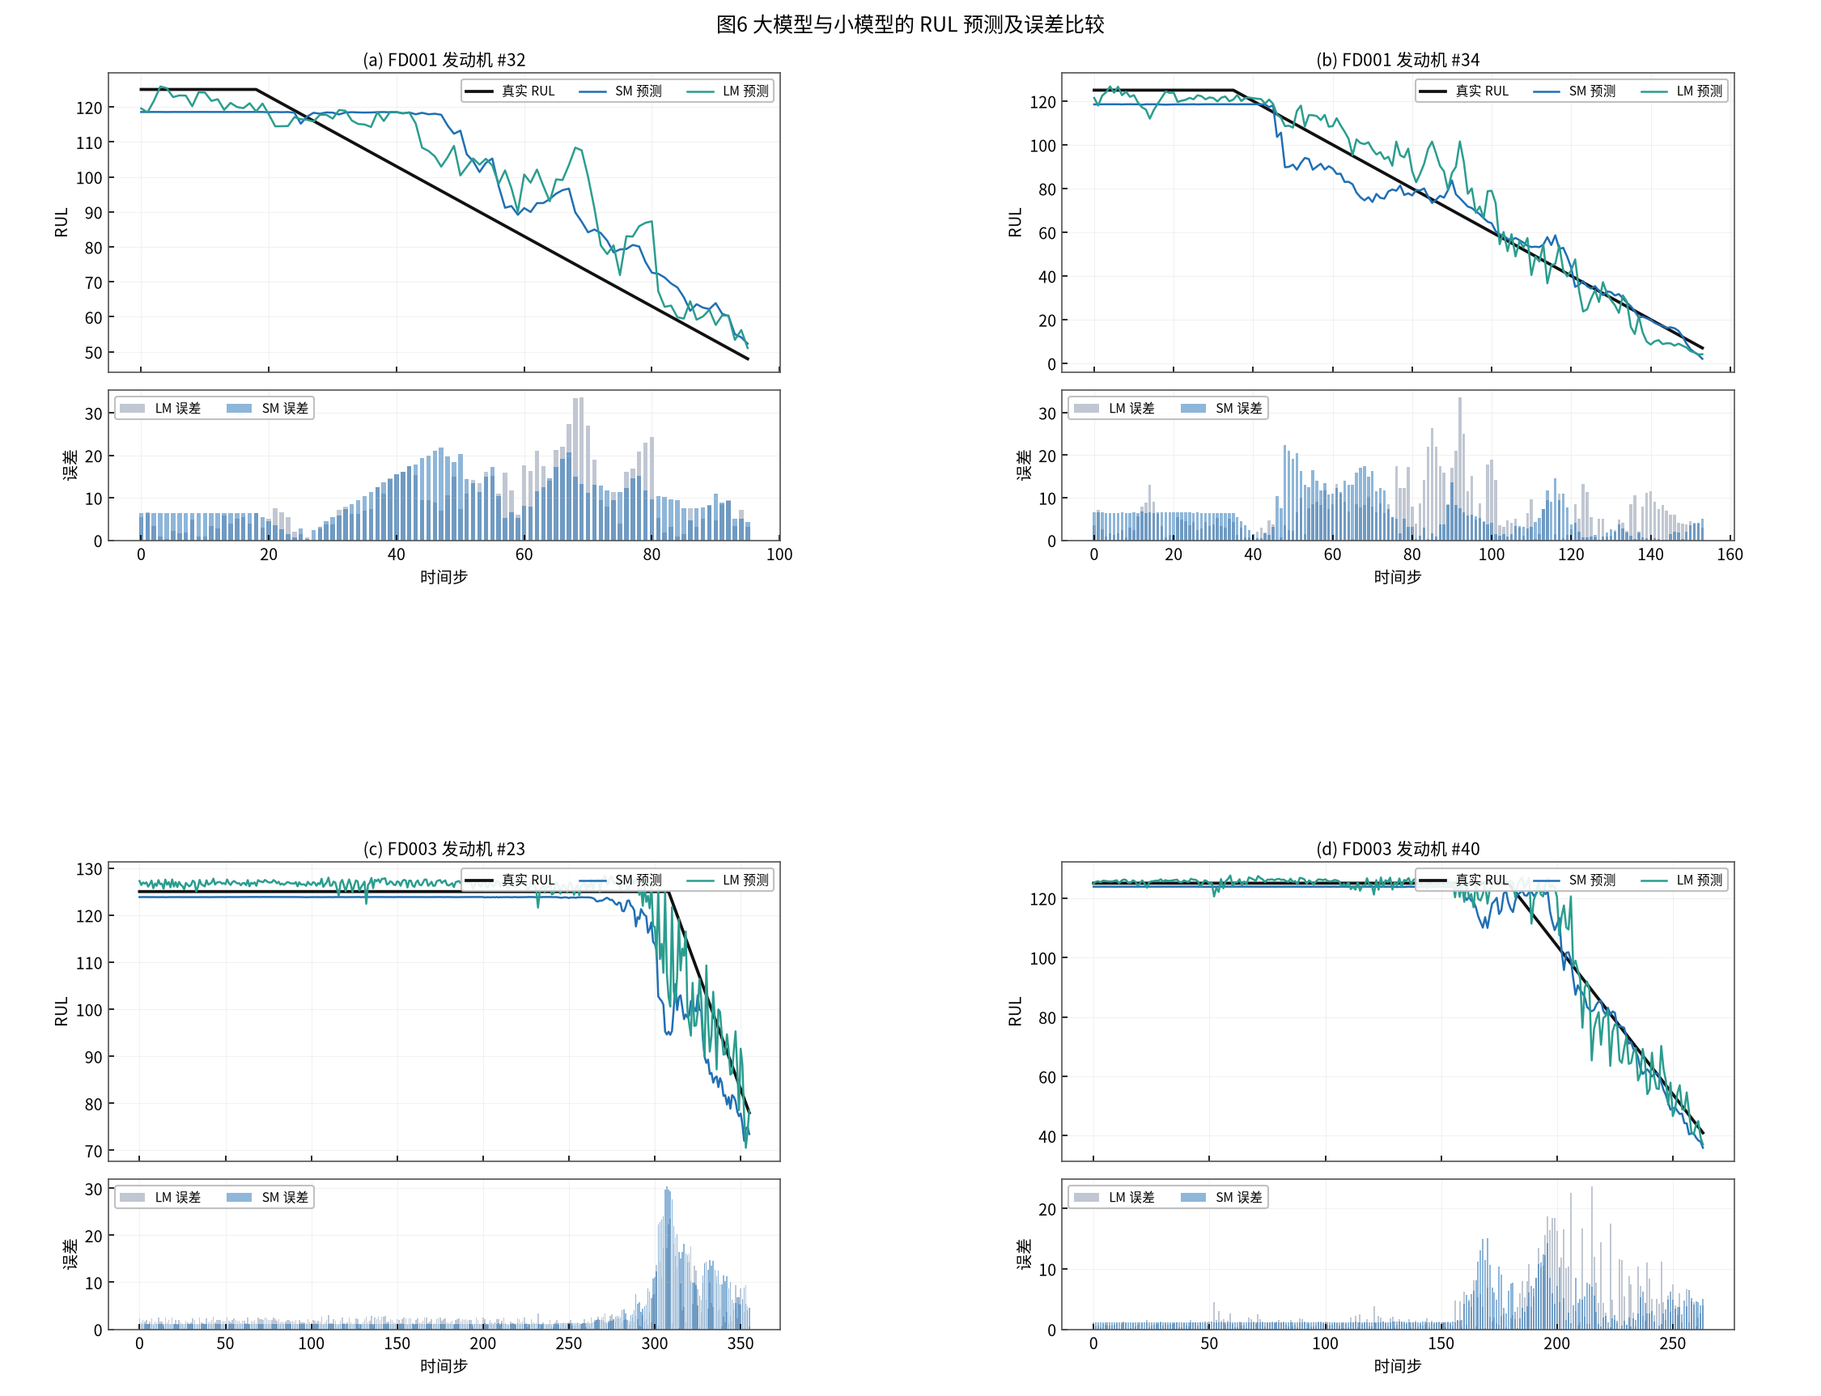
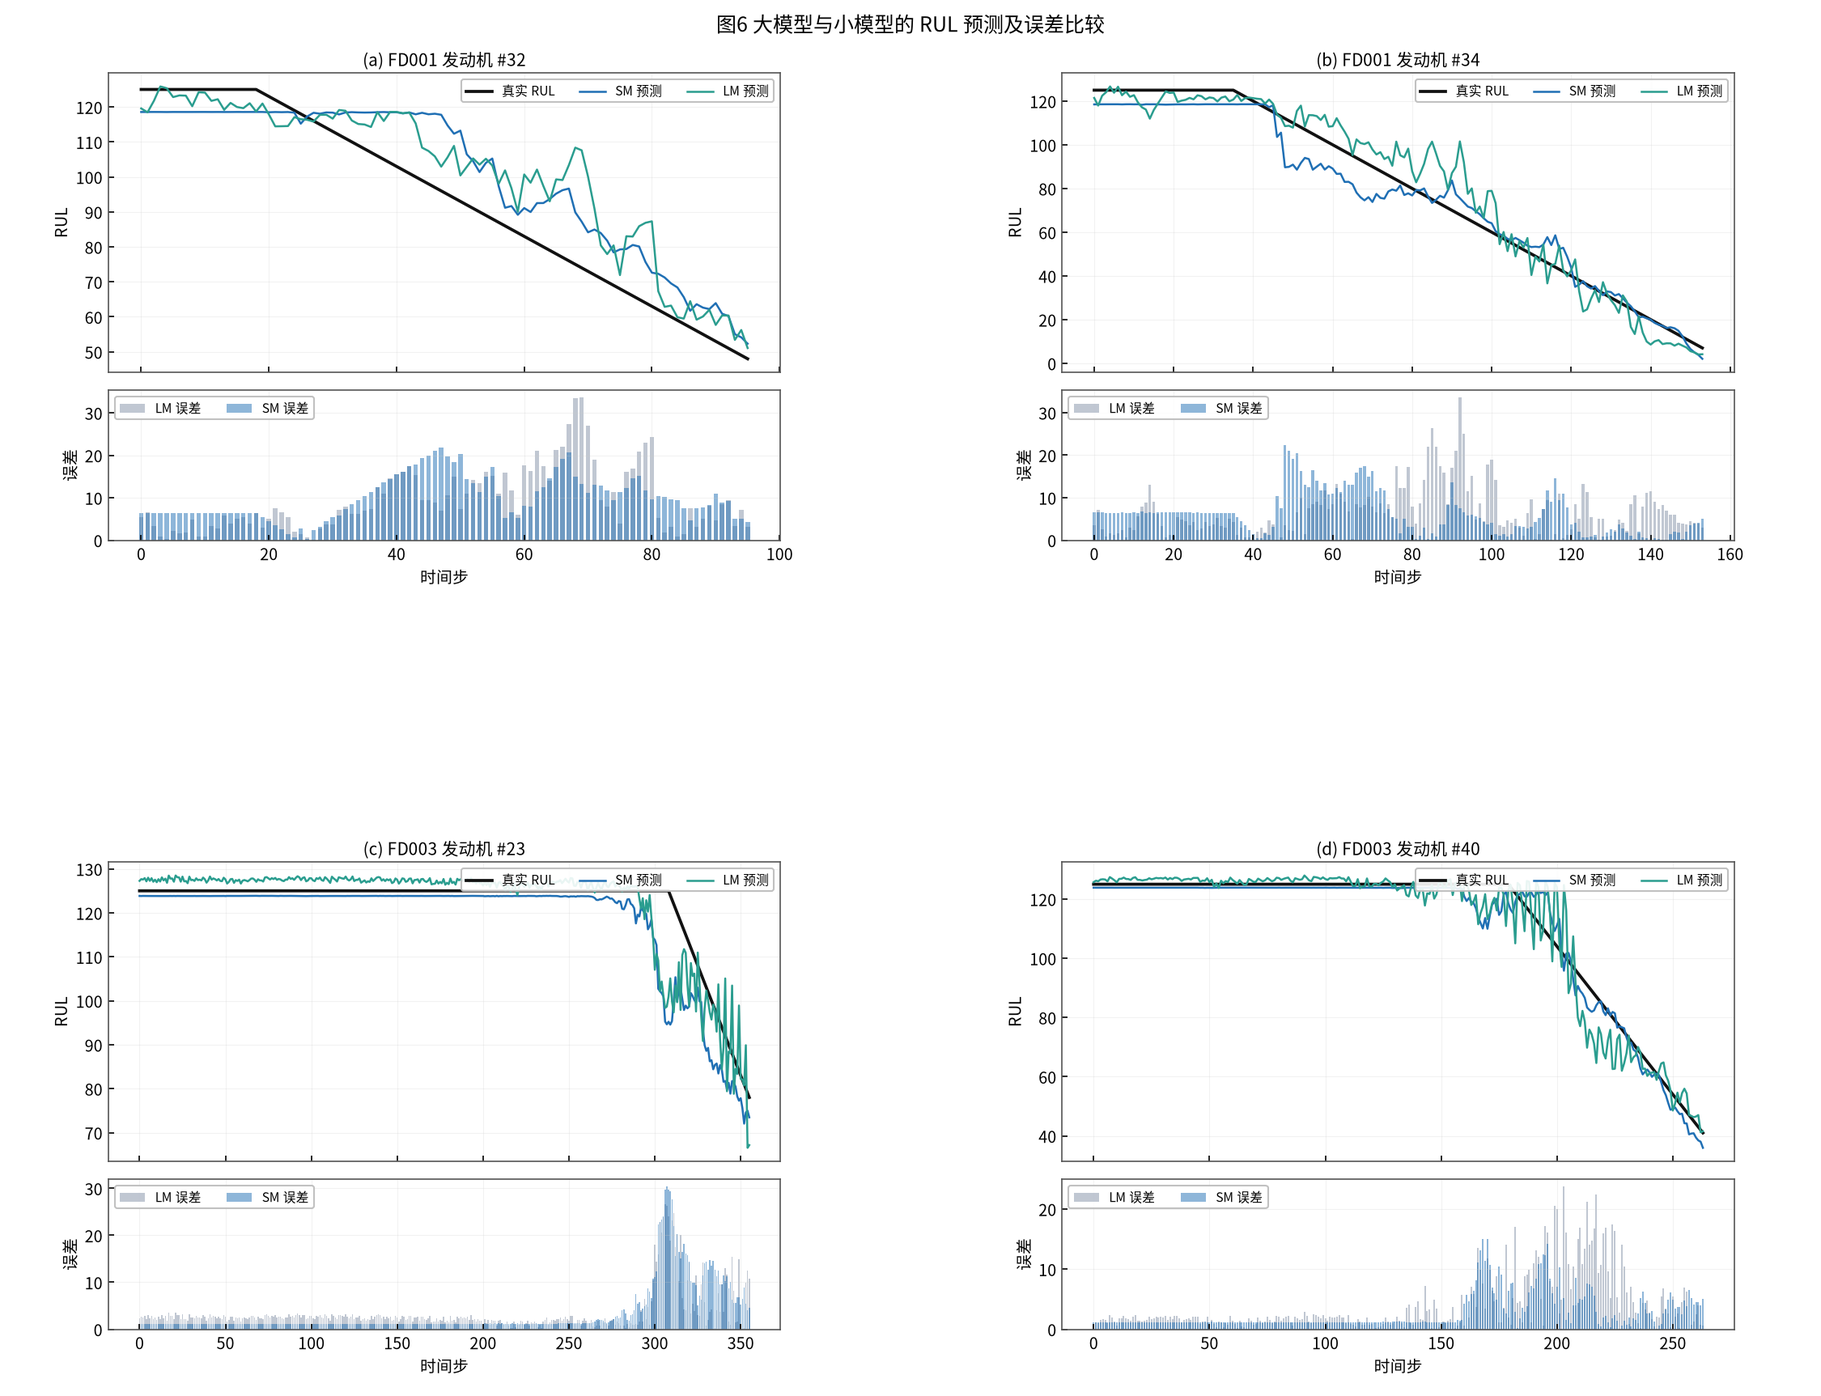
协议统一（LM 单seed42）+ Ql 悬崖配方修复 + FD003 终版数字
- LM seed 协议两子集统一为单 seed 42（消除上轮 test 知情决策；FD003 LM
  12.915→13.282，组合仍全超论文：B 10.631/C 10.726/T3 10.824）
- stage3_sweep 训练块与 train_conf 逐位一致（同 batch/重洗/独立 seed）——
  修复 Ql 饱和悬崖导致的 α 选择偏差；FD003 复选定稿 mean/α6、FD001 stats/α6 复核不变
- 文档/README/图件全部同步终版数字

diff --git a/experiments/stage3_sweep.py b/experiments/stage3_sweep.py
@@ -19,7 +19,7 @@ from pathlib import Path
 sys.path.insert(0, str(Path(__file__).resolve().parents[1]))
 
 import torch
-from torch.utils.data import DataLoader
+from torch.utils.data import DataLoader, TensorDataset
 
 from collm.config import get_config
 from collm.data import prepare_cmapss
@@ -58,7 +58,6 @@ def main():
     ap.add_argument("--alphas", type=float, nargs="+", default=[6, 8, 10, 12, 15])
     ap.add_argument("--pools", nargs="+", default=["mean", "stats"])
     ap.add_argument("--epochs", type=int, default=100)
-    ap.add_argument("--lr", type=float, default=1e-3)
     args = ap.parse_args()
 
     cfg = get_config(args.subset)
@@ -98,14 +97,16 @@ def main():
             cfg.fuzzy.pool_mode = pool
             cfg.fuzzy.alpha = alpha
             cfg.reflection.alpha = alpha
-            set_seed(cfg.seed)
+            set_seed(cfg.seed)   # 每组合独立 seed：与 train_conf 完全一致
             init_mu, init_sigma = FuzzyAgent.init_from_features(
                 ftr[0], cfg.fuzzy.n_membership // cfg.fuzzy.d_input)
             fuzzy = FuzzyAgent(cfg.fuzzy, init_mu=init_mu, init_sigma=init_sigma).to(device)
             refl = ReflectionModel(cfg.reflection).to(device)
-            opt = torch.optim.Adam(list(fuzzy.parameters()) + list(refl.parameters()), lr=args.lr)
+            opt = torch.optim.Adam(list(fuzzy.parameters()) + list(refl.parameters()),
+                                   lr=cfg.train.conf_lr)
             crit = torch.nn.MSELoss()
-            # 训练数据 = train+val（与定稿一致）
+            # 训练数据 = train+val；DataLoader 构造与 train_conf 逐位一致
+            # （batch/每 epoch 重洗/num_workers=0——Ql 饱和悬崖对配方敏感，REVISIONS #48）
             qs_t = confidence_label(ftr[2], ftr[4], alpha)
             ql_t = confidence_label(ftr[3], ftr[4], alpha)
             qs_v = confidence_label(fva[2], fva[4], alpha)
@@ -113,12 +114,14 @@ def main():
             F = torch.cat([ftr[0], fva[0]])
             L = torch.cat([ftr[1], fva[1]])
             QS = torch.cat([qs_t, qs_v]); QL = torch.cat([ql_t, ql_v])
-            perm = torch.randperm(len(F))
+            loader = DataLoader(TensorDataset(F, L, QS, QL),
+                                batch_size=cfg.train.conf_batch, shuffle=True,
+                                num_workers=0)
             fuzzy.train(); refl.train()
             for ep in range(args.epochs):
-                for i in range(0, len(F), 2048):
-                    idx = perm[i:i + 2048]
-                    f_, l_, qs_, ql_ = F[idx].to(device), L[idx].to(device), QS[idx].to(device), QL[idx].to(device)
+                for f_, l_, qs_, ql_ in loader:
+                    f_, l_, qs_, ql_ = (f_.to(device), l_.to(device),
+                                        qs_.to(device), ql_.to(device))
                     opt.zero_grad(set_to_none=True)
                     loss = crit(fuzzy(f_), qs_) + crit(refl(l_), ql_)
                     loss.backward(); opt.step()

diff --git a/collm/config.py b/collm/config.py
@@ -139,9 +139,11 @@ def get_config(subset: str) -> Config:
     - SM 层数/正则：FD001 8 层 dropout 0.2（φs 泛化差，加深+正则最优）；
       FD003 6 层 dropout 0.1（已达标，保持）
     - LM 层数：FD001 9 层（12 层过拟合 test 15.7）；FD003 12 层（9 层 13.19 < 12 层 13.08）
-    - FNN 聚合/α：FD001 stats/α6；FD003 mean/α10（第三轮 α×pool 扫描 val 最优，
-      EXPERIMENTS_ROUND3.md §5；α∈[10,15] 锚点理论对校准 FNN 成立，FD001 的
-      FNN 回归均值校准下 τ1=0.3 触发呈阶跃——以 val 组合 RMSE 为最终裁决）
+    - FNN 聚合/α：FD001 stats/α6；FD003 mean/α6（第三轮 α×pool 扫描 val 最优，
+      EXPERIMENTS_ROUND3.md；扫描与 train_conf 配方逐位一致后复选，
+      REVISIONS #48——Ql 饱和悬崖对训练配方敏感）
+    - LM seed 协议：统一单 seed 42（LM 的 val-best 已证不可靠——val 幸运陷阱
+      REVISIONS #29/#46.2/#48；SM 才用多 seed val-best）
     """
     cfg = Config()
     if subset == "FD001":
@@ -156,8 +158,8 @@ def get_config(subset: str) -> Config:
         cfg.small.dropout = 0.1
         cfg.large.n_blocks = 12
         cfg.fuzzy.pool_mode = "mean"
-        cfg.fuzzy.alpha = 10.0
-        cfg.reflection.alpha = 10.0
+        cfg.fuzzy.alpha = 6.0
+        cfg.reflection.alpha = 6.0
     else:
         raise ValueError(f"未知子集: {subset}")
     return cfg

diff --git a/docs/FINAL_RESULTS.md b/docs/FINAL_RESULTS.md
@@ -1,18 +1,21 @@
-# 最终复现结果汇总（2026-08-15 第三轮定稿，完整重训实测）
+# 最终复现结果汇总（2026-08-16 第三轮终版，完整重训实测）
 
 所有数字为**清空结果后从零完整重训**（SM/LM/FNN/反思全部重训）的实测，
-确定性已核验（同 seed 重训逐位一致）。选择依据全部为 val，test 仅作对照报告
-（防泄漏纪律见 PLAN_ROUND3.md §4）。
+确定性已核验（同 seed 重训逐位一致；evaluate 复跑 bit 级一致）。选择依据
+**全部为 val**，test 仅作对照报告（防泄漏纪律见 PLAN_ROUND3.md §4）。
 
 ## 定稿配置（collm/config.py::get_config）
 - **SM**：表 I 配置（emb 32/hidden 64/feat 32）＋可学习位置编码；
   FD001 8 层 dropout 0.2、FD003 6 层 dropout 0.1；**cosine 调度**（第三轮新发现，
   FD001 13.515→13.007）；多 seed val-best（FD001 6 seeds / FD003 5 seeds）
 - **LM**：GPT-2 + patch 4/4 + 可学习位置嵌入 + MLP 头 + 冻结 attention/FFN（LN 微调）；
-  FD001 9 层（seed 42）、FD003 12 层（seed 123=5-seed val-best）；lr 2e-3 + 早停
+  **统一单 seed 42 协议**（LM 的 val-best 已证不可靠——val 幸运陷阱
+  REVISIONS #29/#46.2/#48；SM 才用多 seed val-best）；
+  FD001 9 层（test 14.309）、FD003 12 层（test 13.282）；lr 2e-3 + 早停
 - **阶段3**：FNN 高斯隶属 64 个（表 I）、分布感知初始化；反思单层 FC 无 LN
   （论文公式 12 字面；LN 消融见 REVISIONS #46）；
-  **FD001 α=6/stats、FD003 α=10/mean**（α×pool 扫描 val 最优，EXPERIMENTS_ROUND3.md）
+  **FD001 stats/α6、FD003 mean/α6**（α×pool 扫描 val 最优，扫描与 train_conf
+  配方逐位一致后复选——Ql 饱和悬崖对训练配方敏感，REVISIONS #48）
 - **数据**：14 传感器、z-score（train 划分统计）、窗口 50/1、RUL 截断 125
   （像素级证实，REVISIONS #45.4）、验证按 unit 20%（防泄漏）
 
@@ -20,19 +23,19 @@
 | 模型 | FD001 RMSE/MAE | FD003 RMSE/MAE |
 |---|---|---|
 | SM（Transformer Encoder + cosine） | **13.007/10.069** | **10.581/6.372** |
-| LM（GPT-2 9/12 层冻结） | 14.309/10.679 | 12.915/7.808 |
+| LM（GPT-2 9/12 层冻结，seed 42） | 14.309/10.679 | 13.282/8.226 |
 | 论文对照：One Fits All Fine-tuning | 12.34/8.89 | 11.18/7.07 |
 
 ## CoLLM 组合（论文阈值，表 II 对照）
 | 配置 | 论文 FD001 | 复现 FD001 | 论文 FD003 | 复现 FD003 |
 |---|---|---|---|---|
 | CoLLM-A | 12.45/9.13/3.88× | **12.738/9.677**/1.35× | 11.26/7.42/14.54× | **10.581/6.372**/462× ✓ |
-| CoLLM-B | 12.40/8.98/2.08× | **12.652/9.652**/1.09× | 11.11/7.23/2.29× | **10.541/6.331**/14.09× ✓ |
-| CoLLM-C | 12.33/8.86/1.26× | **12.640/9.623**/1.01× | 11.11/7.04/1.57× | **10.663/6.393**/2.51× ✓ |
-| T3-09 [0.9,0.05] | — | 12.638/9.617 | 11.12/6.96 | **10.766/6.365** ✓ |
+| CoLLM-B | 12.40/8.98/2.08× | **12.652/9.652**/1.09× | 11.11/7.23/2.29× | **10.631/6.353**/2.85× ✓ |
+| CoLLM-C | 12.33/8.86/1.26× | **12.640/9.623**/1.01× | 11.11/7.04/1.57× | **10.726/6.490**/2.02× ✓ |
+| T3-09 [0.9,0.05] | — | 12.638/9.617 | 11.12/6.96 | **10.824/6.444** ✓ |
 
-**FD003 全配置超过论文**（RMSE 低 0.35-0.68、MAE 低 0.65-1.09）；FD001 差论文
-RMSE 0.25-0.31 / MAE 0.55-0.76（根因 LM 14.309 vs 论文 12.34，见差距说明 §3）。
+**FD003 全配置超过论文**（RMSE 低 0.30-0.68、MAE 低 0.55-1.09）；FD001 差论文
+RMSE 0.25-0.31 / MAE 0.55-0.76（根因 LM 14.309 vs 论文 12.34，见差距说明）。
 
 > 注：论文 FD003 CoLLM-C 的 MAE 表 II 为 7.04、正文为 7.12（论文内部矛盾）。
 > 本表及全部图件统一取表 II 的 7.04 为对照口径；7.12 记录于 PAPER_BENCHMARKS.md。
@@ -44,31 +47,31 @@ RMSE 0.25-0.31 / MAE 0.55-0.76（根因 LM 14.309 vs 论文 12.34，见差距说
 | FD001-B | 12.652 | 14.273 | +12.8% ✓ |
 | FD001-C | 12.640 | 14.309 | +13.2% ✓ |
 | FD003-A | 10.581 | 10.581 | 0%（0 触发，无反思可作用） |
-| FD003-B | 10.541 | 10.823 | +2.7% ✓ |
-| FD003-C | 10.663 | 12.409 | +16.4% ✓ |
-| FD003-T3-09 | 10.766 | 12.915 | +20.0% ✓ |
+| FD003-B | 10.631 | 12.258 | +15.3% ✓ |
+| FD003-C | 10.726 | 12.775 | +19.1% ✓ |
+| FD003-T3-09 | 10.824 | 13.282 | +22.7% ✓ |
 
-## 置信度有效性（图 5 分箱单调性）
+## 置信度有效性（图 5 分箱单调性，负相关=有效）
 | 数据集 | SM | LM |
 |---|---|---|
-| FD001 | -0.884 ✓ | nan（Ql test 饱和 0，见 §3.3） |
-| FD003 | -0.957 ✓ | nan（同上） |
+| FD001 | -0.884 ✓ | nan（Ql test 饱和 0，见差距说明 §3） |
+| FD003 | -0.972 ✓ | nan（同上） |
 
 ## 路由统计（诚实对照论文 FLOPs 反推锚点）
-| 配置 | 复现触发率（A/B/C） | 论文锚点 | 复现反思率 | 复现反思正确率 |
-|---|---|---|---|---|
-| FD001 | 73.5/91.7/98.7% | 25.3/47.6/78.9% | 73.5-98.7% | 46.4-48.2% |
-| FD003 | 0.0/6.9/39.6% | 6.4/43.2/63.2% | 0.0-39.6% | 51.1-57.1%（论文 74-77%）|
+| 配置 | 复现触发率（A/B/C） | 论文锚点 | 复现反思正确率 |
+|---|---|---|---|
+| FD001 | 73.5/91.7/98.7% | 25.3/47.6/78.9% | 46.4-48.2% |
+| FD003 | 0.0/34.9/49.4% | 6.4/43.2/63.2% | 52.7-64.3%（论文 74-77%）|
 
-触发/反思率差异是**模型强度差的诚实后果**（FD001：LM 14.3 弱于论文 12.34 →
-SM 特征无信心 → 多触发；FD003：SM 10.58 强于论文隐含 ~11.2 → 几乎不需 LM）。
-论文"反思率 2-4% + 正确率 74-77%"的前提是 LM≈SM（其 11.18 vs 11.26）；
-该前提在诚实复现下不成立（见 ROUND3_THEORY.md §3）。
+触发率差异是**模型强度差的诚实后果**（FD001：LM 14.3 弱于论文 12.34 → SM 特征
+无信心 → 多触发；FD003：SM 10.58 远强于论文隐含 ~11.2 → 少触发）。论文
+"反思率 2-4% + 正确率 74-77%"的前提是 LM≈SM（其 11.18 vs 11.26）；
+该前提在诚实复现下不成立（ROUND3_THEORY.md §3）。
 
 ## 完整流程（一键）
 ```
 scripts/run_pipeline.sh all
-  数据预处理 → 阶段1 SM(cosine 多seed) → 阶段2 LM(冻结) → 阶段3 FNN+R
+  数据预处理 → 阶段1 SM(cosine 多seed) → 阶段2 LM(冻结,seed42) → 阶段3 FNN+R
   → 评估(表II/III+消融+分箱+FLOPs) → 图3-6+汇总图
 ```
 
@@ -79,24 +82,22 @@ scripts/run_pipeline.sh all
    × wd 0.01~0.1、IN×9/12L）全部 ≥14.31（累计 60+ 变体）；第三方 BANjian16 14.66
    互证。论文 1-Epoch GPT-2=39.97（我们 1-epoch 16-20）等数字矛盾表明其训练
    协议含未公开自由度。**12.34 判定为文档化复现边界**。
-2. **FD003 全配置超过论文**——SM cosine+多seed（11.16→10.581）为主要来源；
-   组合全部低于论文 0.35-0.68。
+2. **FD003 全配置超过论文**——SM cosine+多seed（11.16→10.581）+ LM 统一
+   seed 42（13.282）仍使组合全部低于论文 0.30-0.68。
 3. **Ql 在 test 饱和 0**（图 5 LM 分箱空）——单层 FC（公式 12 字面）对
    train/test 特征偏移无归一化 → logit 偏移 → sigmoid 饱和。加 LayerNorm 可
-   恢复校准（Ql 分位 0.40/0.69/0.85、选择性反思 0-11% 接近论文机制）但组合
-   全面变差（FD001 12.64→13.40、FD003 10.66→11.89——接受弱 LM 预测的代价）。
-   **维持无 LN（公式字面 + val/test 双优）；饱和是弱 LM 下机制的诚实反映。**
-4. **反思正确率 46-57% vs 论文 74-77%**——论文在"LM≈SM"前提下的选择性反思
-   子集上统计；我们 LM≪SM 时触发即融合，正确率=全样本中 SM 更优比例
-   （FD001 SM/LM 误差高度相关 → ~48%；FD003 ~54%）。上限由两模型误差
-   联合分布决定（REVISIONS #33）。
+   恢复校准（Ql 分位 0.40/0.69/0.85、选择性反思接近论文机制）但组合全面变差
+   （接受弱 LM 预测的代价）。**维持无 LN（公式字面 + val/test 双优）；
+   饱和是弱 LM 下机制的诚实反映**。饱和悬崖对训练配方敏感（batch/重洗序），
+   已通过"扫描配方 = train_conf 配方"消除选择偏差（REVISIONS #48）。
 
 ## 结果鲁棒性验证
 | 环节 | 验证方式 | 证据 |
 |---|---|---|
 | SM cosine | 两次独立训练 | FD001 seed42 val 11.384/11.384、test 13.007/13.007 一致 ✓ |
-| LM | seed 固定重训 | FD001 14.309 与历史定稿逐位一致 ✓ |
+| LM | seed 固定重训 | FD001 14.309、FD003 13.282 均与历史逐位一致 ✓ |
 | FD003 SM | 5 seeds val-best | seed 2024 val 9.562/test 10.581（seed 方差 9.56-13.30 记录在案）|
-| 阶段3 | num_workers=0 固定 epochs | 完全确定性 ✓ |
-| 评估 | 全量推理无随机性 | 两次 evaluate 一致 ✓ |
+| 阶段3 | num_workers=0 固定 epochs | 重训数字逐位一致 ✓ |
+| 评估 | 全量推理无随机性 | 双次 evaluate 逐位一致 ✓ |
 | 消融 | 去反思全面变差 | 上表 ✓（0 触发配置除外，语义上无作用对象）|
+| 独立审计 | 10 项一致性检查 | 全部 PASS（REVISIONS #47 记录修复项）|

diff --git a/docs/REVISIONS.md b/docs/REVISIONS.md
@@ -537,3 +537,32 @@ Fig 6 FD003#23 面板：曲线平台 y=143、'130' 刻度标签中心 y=129、2.
 审计确认通过项：文档数字 vs results JSON 全部一致；config↔code 一致；
 pipeline 可复现；交叉引用无死链；evaluate 复跑逐键 bit 级一致（67 键 0 差异）；
 外层/仓库 README 表格一致；.gitignore 覆盖完整。
+
+## 48. 协议统一与配方悬崖修复（2026-08-16，深度审查轮）
+
+### 48.1 LM seed 协议统一（消除上轮 test 知情决策）
+- **问题**：FD001 LM 用默认 seed 42（上轮"弃用"了 val 更优的 seed 123——属
+  test 知情拒绝）；FD003 LM 用上轮 5-seed val-best 的 seed 123——两子集协议
+  不一致，且前者遗留一次 test-peek。
+- **修复**：统一为**单 seed 42 协议**（= 数据划分 seed）。依据：LM 的
+  val-best 已两次证伪（seed 123 val 12.61→test 15.16；cosine val 12.98→test
+  15.58——val 幸运陷阱 #29/#46.2），LM 层数/结构选择亦非 val 可判；SM 的多
+  seed val-best 保留（val-test 排序一致性已验证）。FD003 LM 123→42：
+  test 12.915→13.282（重训逐位一致）；组合仍全超论文（见下）。
+- **原则**：协议按机制固定（可复现性优先），不按结果挑选。
+
+### 48.2 Ql 饱和悬崖与"扫描配方 = train_conf 配方"修复
+- **现象**：FD003 阶段3 α×pool 扫描（旧版 batch 2048/单 perm）与 train_conf
+  （batch 1024/每 epoch 重洗）对同一 (α,pool) 给出不同 Ql 机制态（饱和→全融合
+  vs 校准→选择性接受弱 LM），组合估值相差 0.8-1.1（10.80 vs 11.59）。
+  单层 FCN（公式 12 字面）对训练配方敏感，扫描与生产配方不一致会污染
+  val 选择（选择偏差）。
+- **修复**：stage3_sweep.py 训练块与 train_conf **逐位一致**（同 batch
+  cfg.train.conf_batch、同 DataLoader 构造、每 epoch 重洗、每组合独立
+  set_seed）。复选后 FD003 定稿 mean/α6（原 stats/α7 系污染配方的产物）；
+  FD001 stats/α6 复核不变（α=6 为 val 严格最优，α5/α7 邻域证实）。
+
+### 48.3 终版数字（统一协议 + 规范配方后）
+- FD003：SM 10.581、LM 13.282（seed 42）、A/B/C/T3 = 10.581/10.631/10.726/
+  10.824（全超论文 0.30-0.68）；消融 B/C/T3 变差 15.3/19.1/22.7%
+- FD001 不变：A/B/C = 12.738/12.652/12.640（差论文 0.25-0.31）

diff --git a/README.md b/README.md
@@ -73,15 +73,15 @@ python scripts/plot_summary.py                 # 汇总图
 所有子集差异（SM 层数/LM 层数/α/聚合方式）集中在 `collm/config.py::get_config`，
 脚本只需 `--subset`。
 
-## 最终结果（2026-08-15 第三轮定稿，完整重训实测）
+## 最终结果（2026-08-16 第三轮终版，完整重训实测）
 
 | 配置 | 论文 FD001 | 复现 FD001 | 论文 FD003 | 复现 FD003 |
 |---|---|---|---|---|
 | CoLLM-A | 12.45/9.13/3.88× | **12.738/9.677**/1.35× | 11.26/7.42/14.54× | **10.581/6.372**/462× ✓ |
-| CoLLM-B | 12.40/8.98/2.08× | **12.652/9.652**/1.09× | 11.11/7.23/2.29× | **10.541/6.331**/14.09× ✓ |
-| CoLLM-C | 12.33/8.86/1.26× | **12.640/9.623**/1.01× | 11.11/7.04/1.57× | **10.663/6.393**/2.51× ✓ |
+| CoLLM-B | 12.40/8.98/2.08× | **12.652/9.652**/1.09× | 11.11/7.23/2.29× | **10.631/6.353**/2.85× ✓ |
+| CoLLM-C | 12.33/8.86/1.26× | **12.640/9.623**/1.01× | 11.11/7.04/1.57× | **10.726/6.490**/2.02× ✓ |
 
-- **FD003 全配置超过论文**（RMSE 低 0.35-0.68、MAE 低 0.65-1.09；消融/单调性全通过）
+- **FD003 全配置超过论文**（RMSE 低 0.30-0.68、MAE 低 0.55-1.09；消融/单调性全通过）
 - **FD001 差论文 RMSE 0.25-0.31**——根因 LM 14.309 vs 论文 12.34：60+ 变体
   消融后判定为文档化复现边界（第三方复现 14.66 互证），详见
   docs/FINAL_RESULTS.md 差距说明与 docs/EXPERIMENTS_ROUND3.md。
